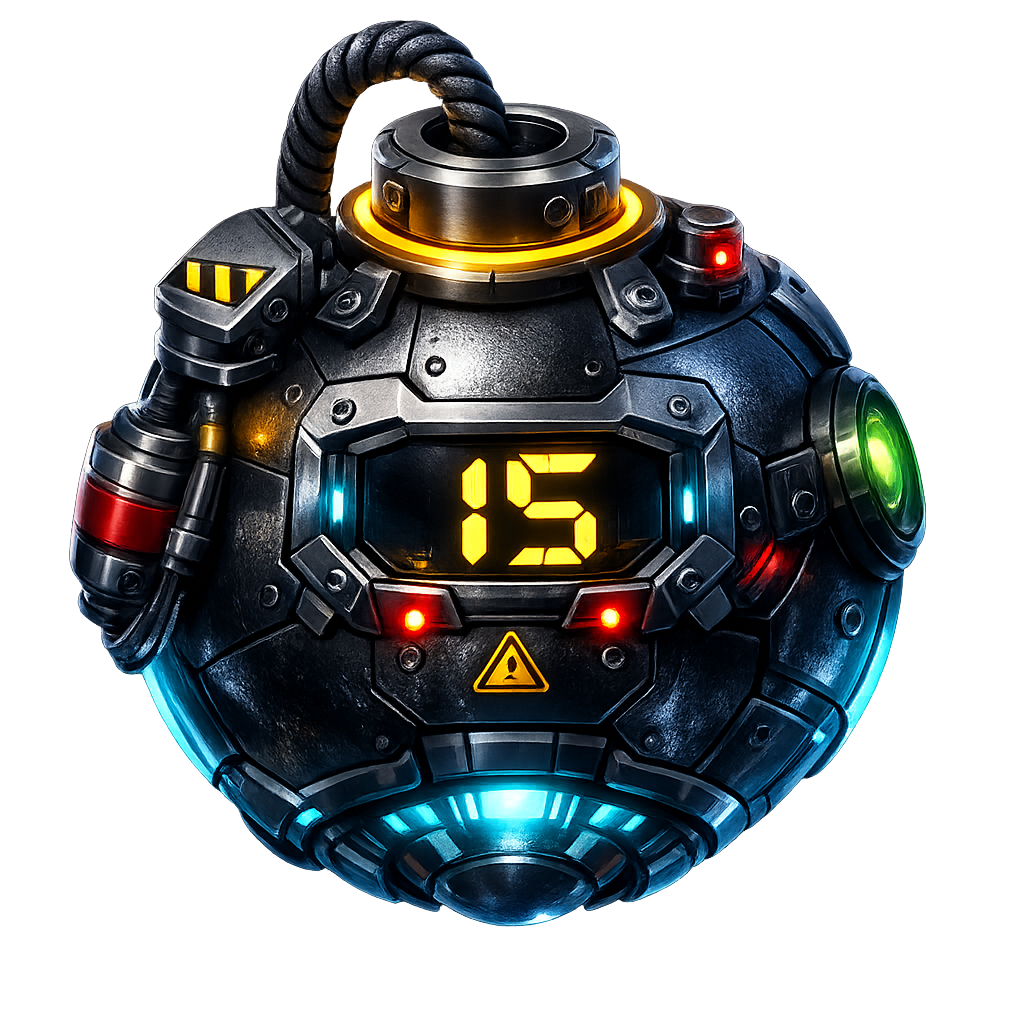
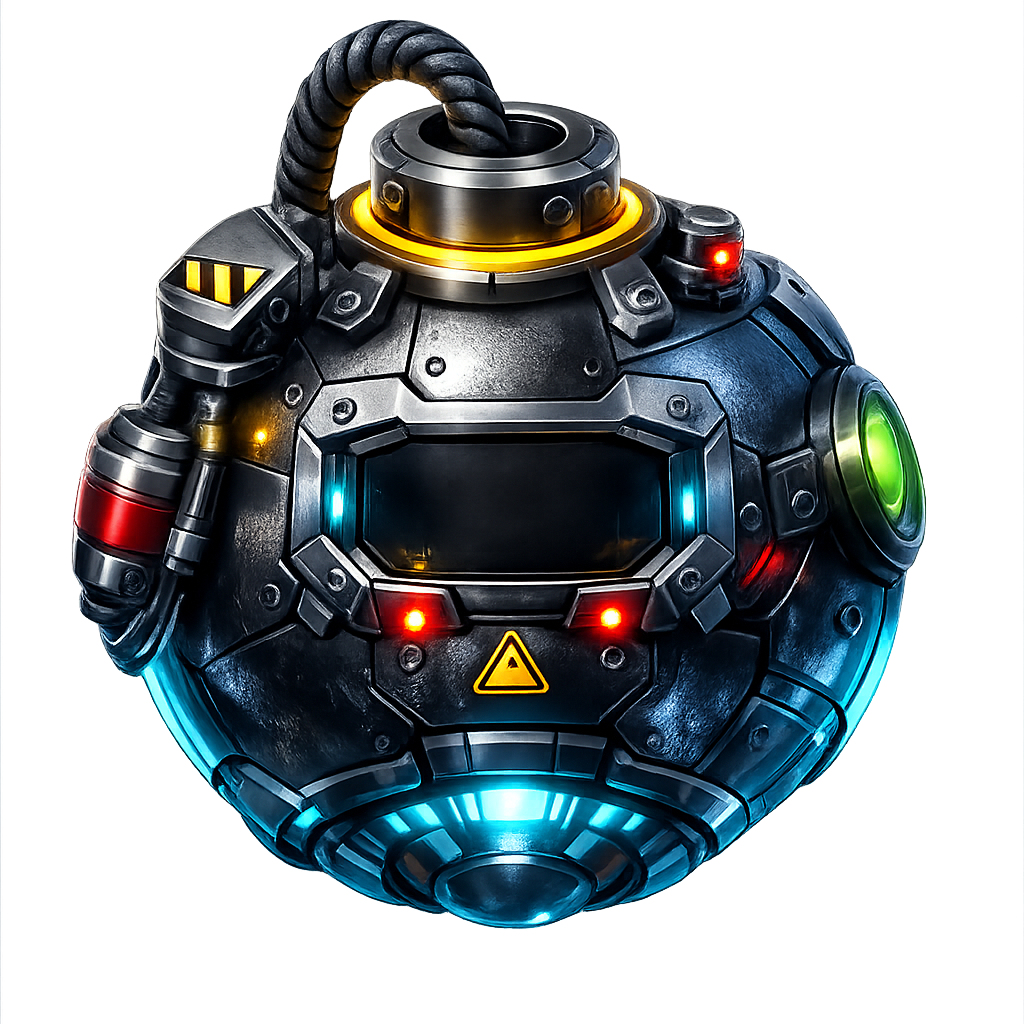
up

Changed region(s): [[0.0625, 0.0, 0.9062, 0.9062]]

diff --git a/public/game-time-race.html b/public/game-time-race.html
@@ -455,19 +455,19 @@ body{
 }
 
 
+/* TIMER TRONG BOMB */
 
 .bomb-timer{
   position:absolute;
-  top:35px;
-  left:50%;
-  transform:translateX(-50%);
-
-  font-size:18px;
-  font-weight:900;
-
+  top:102px;
+  left:113px;
+  font-size:37px;
+  font-weight:800;
   color:#ffcc00;
-  text-shadow:0 0 12px #ff9900;
+  text-shadow:0 0 10px #ff9900;
+ 
 }
+
 
 
 /* spark */
@@ -663,24 +663,6 @@ body{
   text-shadow:0 0 8px #00f0ff;
 }
 
-
-/* TIMER TRONG BOMB */
-
-.bomb-timer{
-  position:absolute;
-  top:22px;
-  font-size:18px;
-  font-weight:800;
-  color:#ffcc00;
-  text-shadow:0 0 10px #ff9900;
-  animation: pulseTimer 1s infinite;
-}
-
-@keyframes pulseTimer{
-  0%{ transform:scale(1); opacity:.8;}
-  50%{ transform:scale(1.1); opacity:1;}
-  100%{ transform:scale(1); opacity:.8;}
-}
 
 
 /* ================= CYBER ROUND HISTORY ================= */
